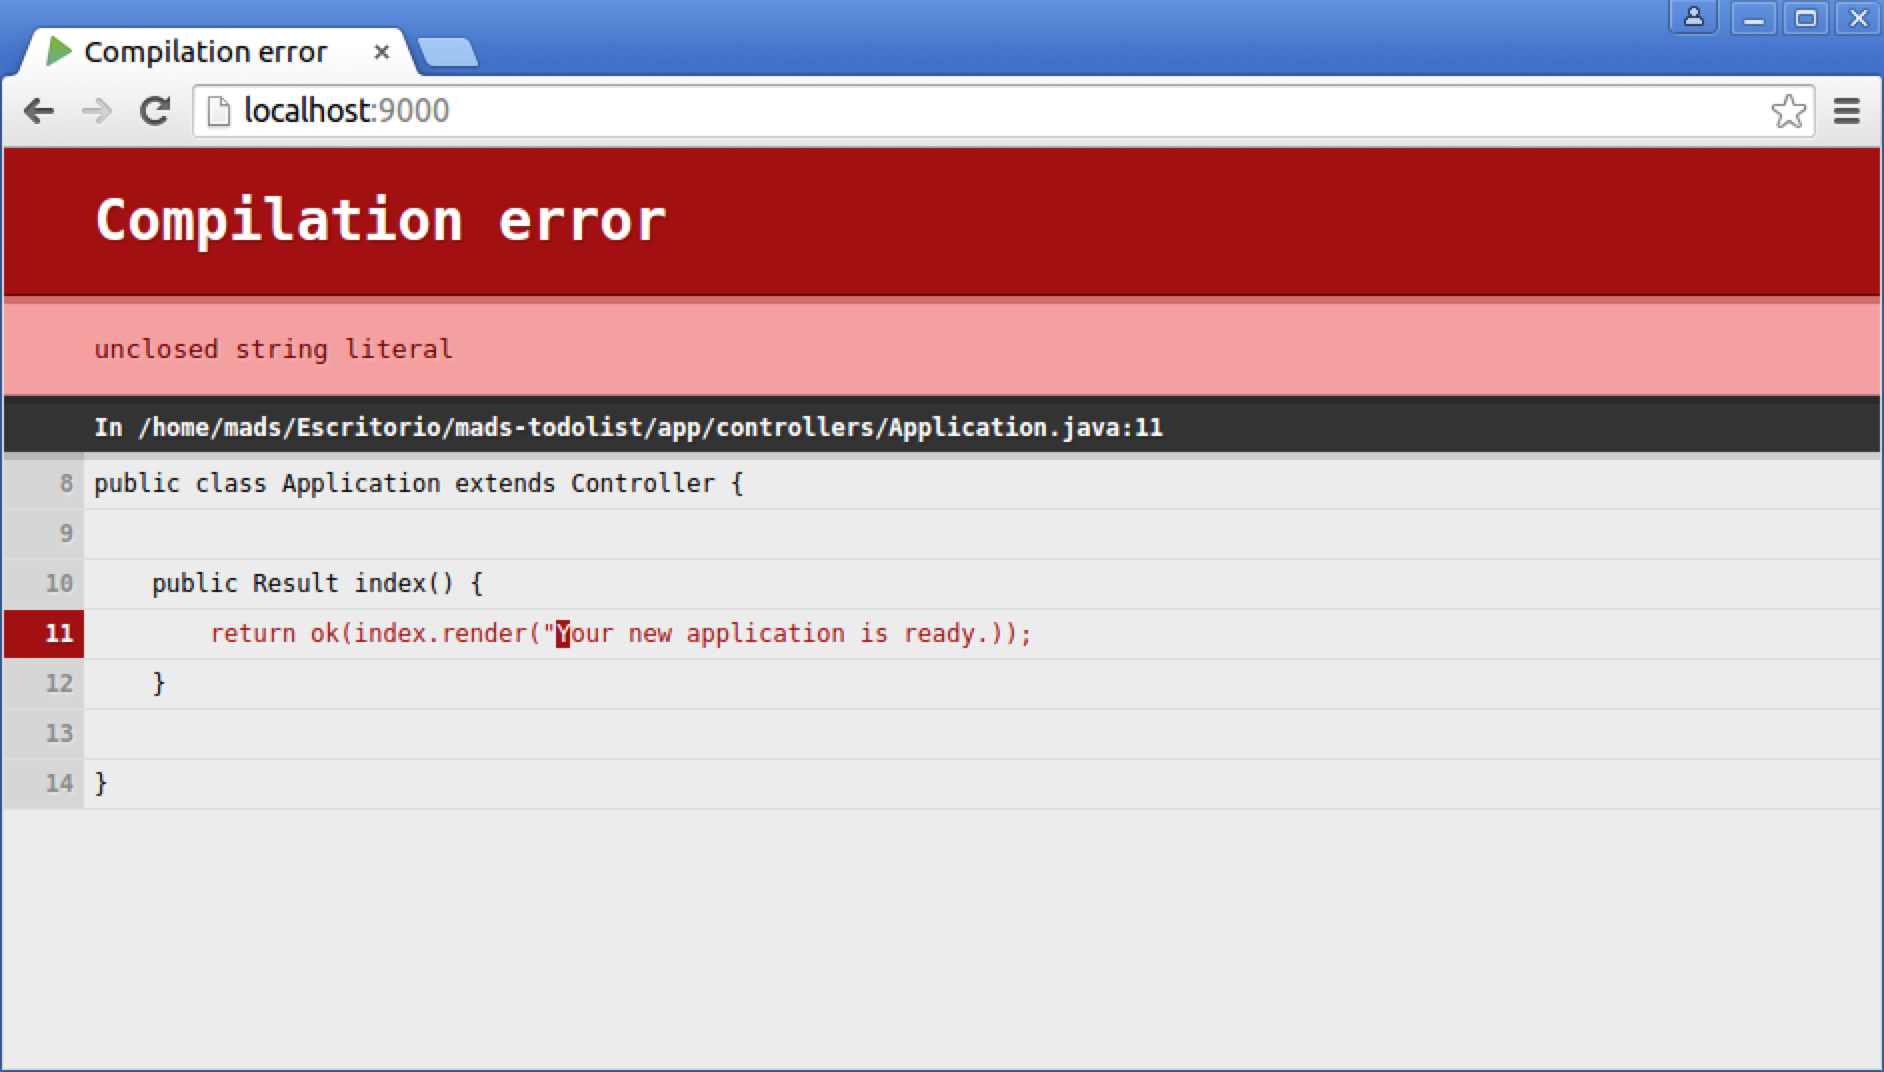
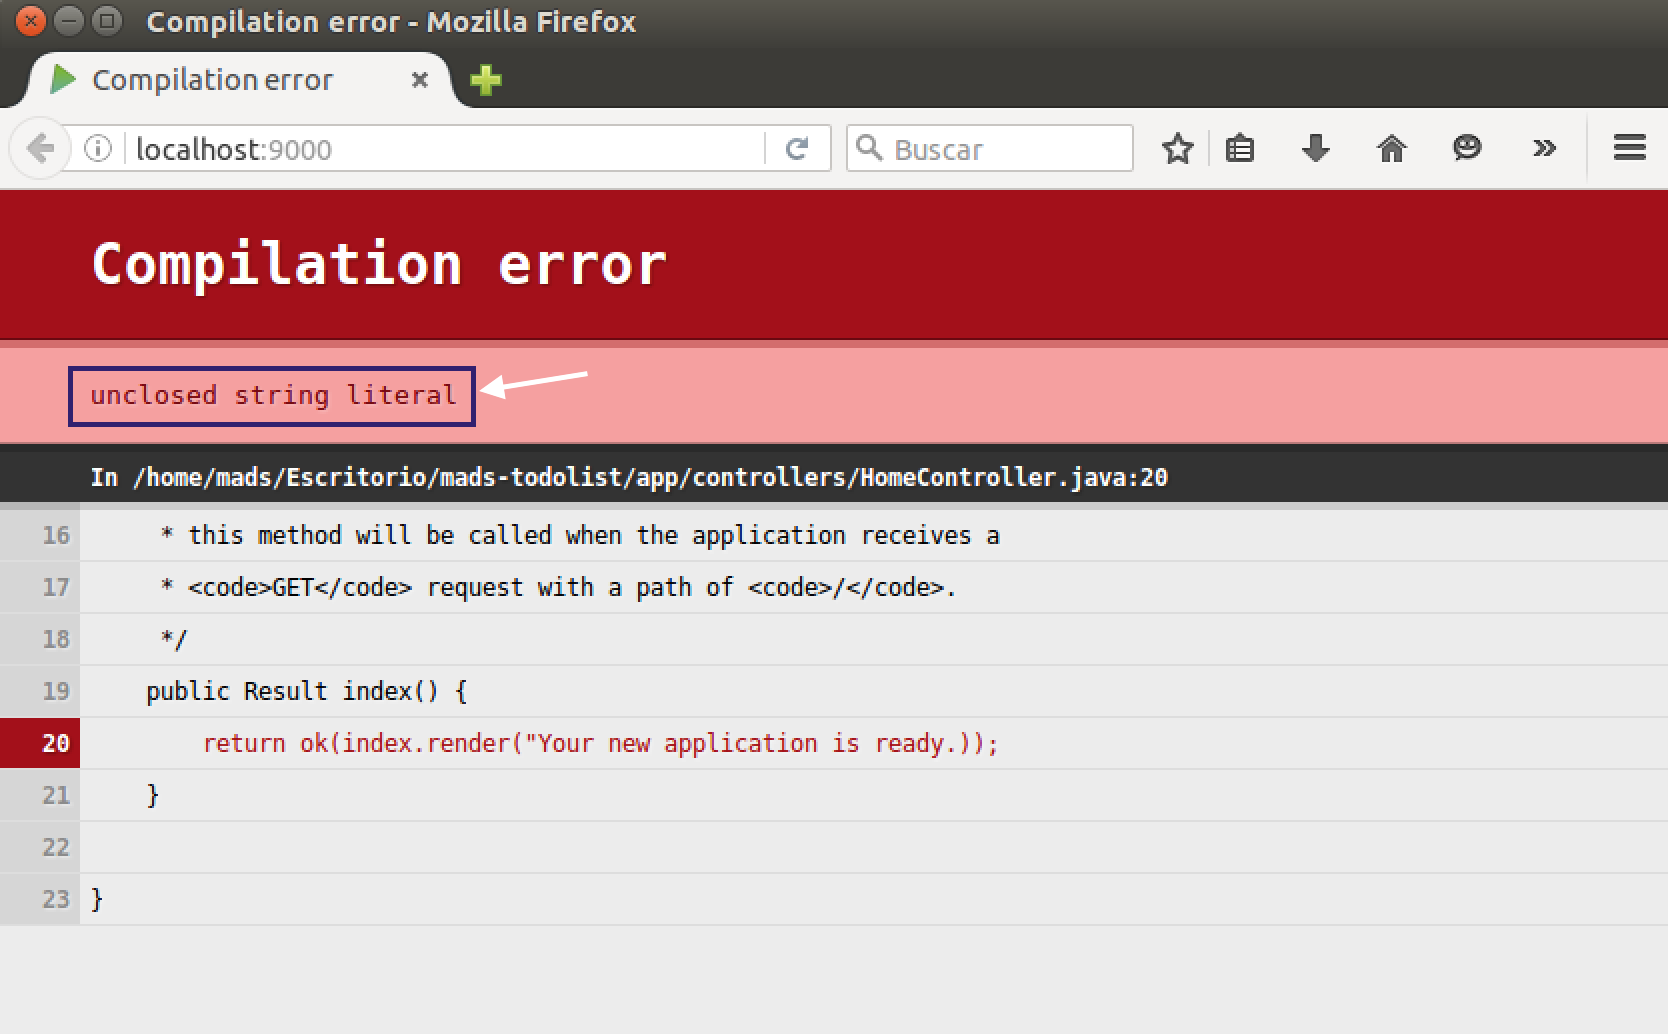
Actualizado a Play 2.5.6

diff --git a/practicas/introduccion-play/introduccion-play.md b/practicas/introduccion-play/introduccion-play.md
@@ -188,7 +188,7 @@ GitHub ha introducido una oferta para estudiantes llamada [Student Developer Pac
 Para realizar esta práctica necesitas lo siguiente:
 
 - [Java SE 8](http://www.oracle.com/technetwork/java/javase/downloads/jdk8-downloads-2133151.html)
-- [Play Framework 2.4.2](https://playframework.com/download)
+- [Play Framework 2.5.6](https://playframework.com/download)
 - Editor o entorno de desarrollo. Recomendamos [Atom](https://atom.io) o [IntelliJ Community Edition](https://www.jetbrains.com/idea/download/).
 - Cuenta de estudiante en GitHub
 
@@ -234,7 +234,7 @@ Debes **subir a GitHub todos los cambios conforme los vayas programando**. De es
 
 Crea una [cuenta de estudiante](https://education.github.com/pack) en GitHub en la que puedas crear repositorios privados
 
-#### 3. Repositorio de prueba
+#### 3. Crear repositorio de prueba de Git: `mads-prueba-git`
 
 Debes crear un repositorio llamado `mads-prueba-git` en el que pruebes los [comandos básicos de Git](comandos-git.md). Ve añadiendo ficheros de texto sobre un tema que elijas (por ejemplo películas, series de televisión, libros, etc.) y prueba todos los comandos:
 
@@ -244,8 +244,8 @@ Debes crear un repositorio llamado `mads-prueba-git` en el que pruebes los [coma
 - git diff
 - git log --oneline
 - creación ramas
-- merge de ramas
-- rebase de ramas (avanzamos el master y la rama, y después hacemos un rebase y un merge de la rama en el master)
+- merge de ramas (usando --no-ff)
+- rebase de ramas (avanzamos el master y la rama, y después hacemos un rebase de la rama y un merge --no-ff desde la master)
 - git log --oneline --graph (para comprobar el grafo de commits)
 - comandos para modificar la historia: cambiar el último mensaje de commit, deshacer el último commit y crear una rama en un punto pasado de la historia
 
@@ -267,7 +267,7 @@ Veamos los pasos a seguir:
 
     ```
     $ which activator
-    /home/mads/PlayFramework/activator-dist-1.3.5/activator
+    /opt/activator-1.3.10-minimal/bin/activator
     ```
 
 - Creamos la aplicación base en algún directorio, por ejemplo el escritorio:
@@ -279,10 +279,13 @@ Veamos los pasos a seguir:
 
     Nos mostrará una lista de plantillas, escribimos `play-java` y le damos al nuevo proyecto el nombre `mads-todolist`.
 
-- Se habrá creado el directorio con ese nombre. Nos movemos a él y lanzamos play:
+- Se habrá creado el directorio con ese nombre. Nos movemos a él, hacemos un `ls` para comprobar los directorios y ficheros que se han creado y lanzamos play:
 
     ```
     $ cd mads-todolist
+    $ ls
+    app  build.sbt  libexec  logs     public  target
+    bin  conf       LICENSE  project  README  test
     $ activator run
     ```
 
@@ -290,12 +293,16 @@ Veamos los pasos a seguir:
 
 - Abre el navegador e abre la URL [http:localhost:9000](http:localhost:9000). Verás que play compila los programas fuentes y que responde con una página de saludo:
 
-    <img src="imagenes/pantalla1-play.png" width="500px">
+    <img src="imagenes/pantalla1-play.png" width="700px">
 
-- Estudia cómo funciona la aplicación. Lanza `Atom` y carga el directorio `mads-todolist`. Estudia qué función cumple cada directorio y cada fichero. Comprueba cómo se muestra la frase `"Your new application is ready"` en la acción `index()` en el fichero `app/controllers/Application.java`. Prueba a introducir un error (por ejemplo, quitar las dobles comillas de alguna cadena) y vuelve a recargar la página. Verás que automáticamente Play recompila la aplicación y muestra el error en el propio navegador:
+- Estudia cómo funciona la aplicación. Lanza `Atom` y carga el directorio `mads-todolist`:
+
+    <img src="imagenes/atom-con-play.png" width="500px">
+
+    Estudia qué función cumple cada directorio y cada fichero. Comprueba cómo se muestra la frase `"Your new application is ready"` en la acción `index()` en el fichero `app/controllers/HomeController.java`. Prueba a introducir un error (por ejemplo, quitar las dobles comillas de alguna cadena) y vuelve a recargar la página. Verás que automáticamente Play recompila la aplicación y muestra el error en el propio navegador:
 
 
-    <img src="imagenes/error-play.png" width="500px">
+    <img src="imagenes/error-play.png" width="700px">
 
 - Arregla el error y cambia el mensaje para comprobar que esta función es la define el mensaje que aparece en la plantilla.
 
@@ -323,7 +330,7 @@ Una vez que tenemos una primera versión en funcionamiento es un buen momento de
     fatal: unable to auto-detect email address (got 'mads@mads.(none)')
     ```
 
-    Introducimos nuestro correo electrónico (el que usaremos para autentificarnos en Bitbucket) y nuestro nombre verdadero:
+    Introducimos nuestro correo electrónico (el que usaremos para autentificarnos en GitHub) y nuestro nombre verdadero:
 
 
     ```
@@ -339,9 +346,8 @@ Una vez que tenemos una primera versión en funcionamiento es un buen momento de
 - Conecta la rama principal del repositorio local con bibucket:
 
     ```
-    $ git remote add origin https://<usuario>@bitbucket.org/<usuario>/mads-todolist.git  
-    $ git push -u origin --all
-    $ git push -u origin --tags
+    $ git remote add origin https://<usuario>github.com/<usuario>/mads-todolist.git
+    $ git push -u origin master
     ```
 
 #### 6. Trello
@@ -395,21 +401,26 @@ Y seguimos desarrollando la característica y usando **Git**:
 
     ```
     ...
-    GET     /saludo                     controllers.Application.saludo()
+    GET     /saludo                     controllers.ApplicationController.saludo()
     ...
     ```
 
-- Añadimos la acción `controllers.Application.saludo`:
+- Añadimos la acción `controllers.ApplicationController.saludo`:
 
-    **app/controllers/Application.java**
+    **app/controllers/ApplicationController.java**
 
     ```
-    ...
-    public class Application extends Controller {
-        public Result saludo() {
-        return ok(saludo.render());
+    package controllers;
+
+    import play.mvc.*;
+    import views.html.*;
+
+    public class ApplicationController extends Controller {
+
+       public Result saludo() {
+          return ok(saludo.render());
+       }
     }
-    ...
     ```
 
 - Añadimos la vista `saludo.scala.html`:
@@ -422,14 +433,14 @@ Y seguimos desarrollando la característica y usando **Git**:
     }
     ```
 
-- Comprobamos que se devuelve el saludo al acceder a la página [http://localhost/saludo](http://localhost/saludo)
+- Comprobamos que se devuelve el saludo al acceder a la página [http://localhost:9000/saludo](http://localhost/saludo)
 
 - Hacemos un commit con los cambios:
 
 
     ```
     $ git status
-    $ git add app/views/saludo.scala.html
+    $ git add .
     $ git commit -m "TIC-1 Añadida página de saludo"
     ```
 
@@ -468,13 +479,13 @@ Vamos ahora a añadir el parámetro `nombre` a la página de saludo.
 - Por último, realizamos el commit y, como hemos terminado la característica, mezclamos la rama con la principal y borramos la rama
 
     ```
-    $ git commit -a -m "TIC-1 Añadido parametro nombre a la pagia de saludo"
+    $ git commit -am "TIC-1 Añadido parametro nombre a la página de saludo"
     $ git checkout master
     $ git merge --no-ff tic-1-pagina-home-saludo -m "TIC-1 Merge Página home de saludo"
     $ git branch -d tic-1-pagina-home-saludo
     ```
 
-- Subimos los cambios a Bitbucket:
+- Subimos los cambios a GitHub:
 
     ```
     $ git push 
@@ -495,6 +506,8 @@ Vamos ahora a añadir el parámetro `nombre` a la página de saludo.
 **En Trello**:
 
 Una vez integrada la rama y subidos los cambios a GitHub, moveremos la tarjeta correspondiente a la columna de **Terminados** y **añadiremos en la descripción un enlace al commit con el merge en GitHub.
+
+[Ejemplo de tablero Trello](https://trello.com/b/EBB0IKKS)
 
 De esta forma podremos revisar los cambios introducidos en cada uno de los _tickets_ terminados.
 
